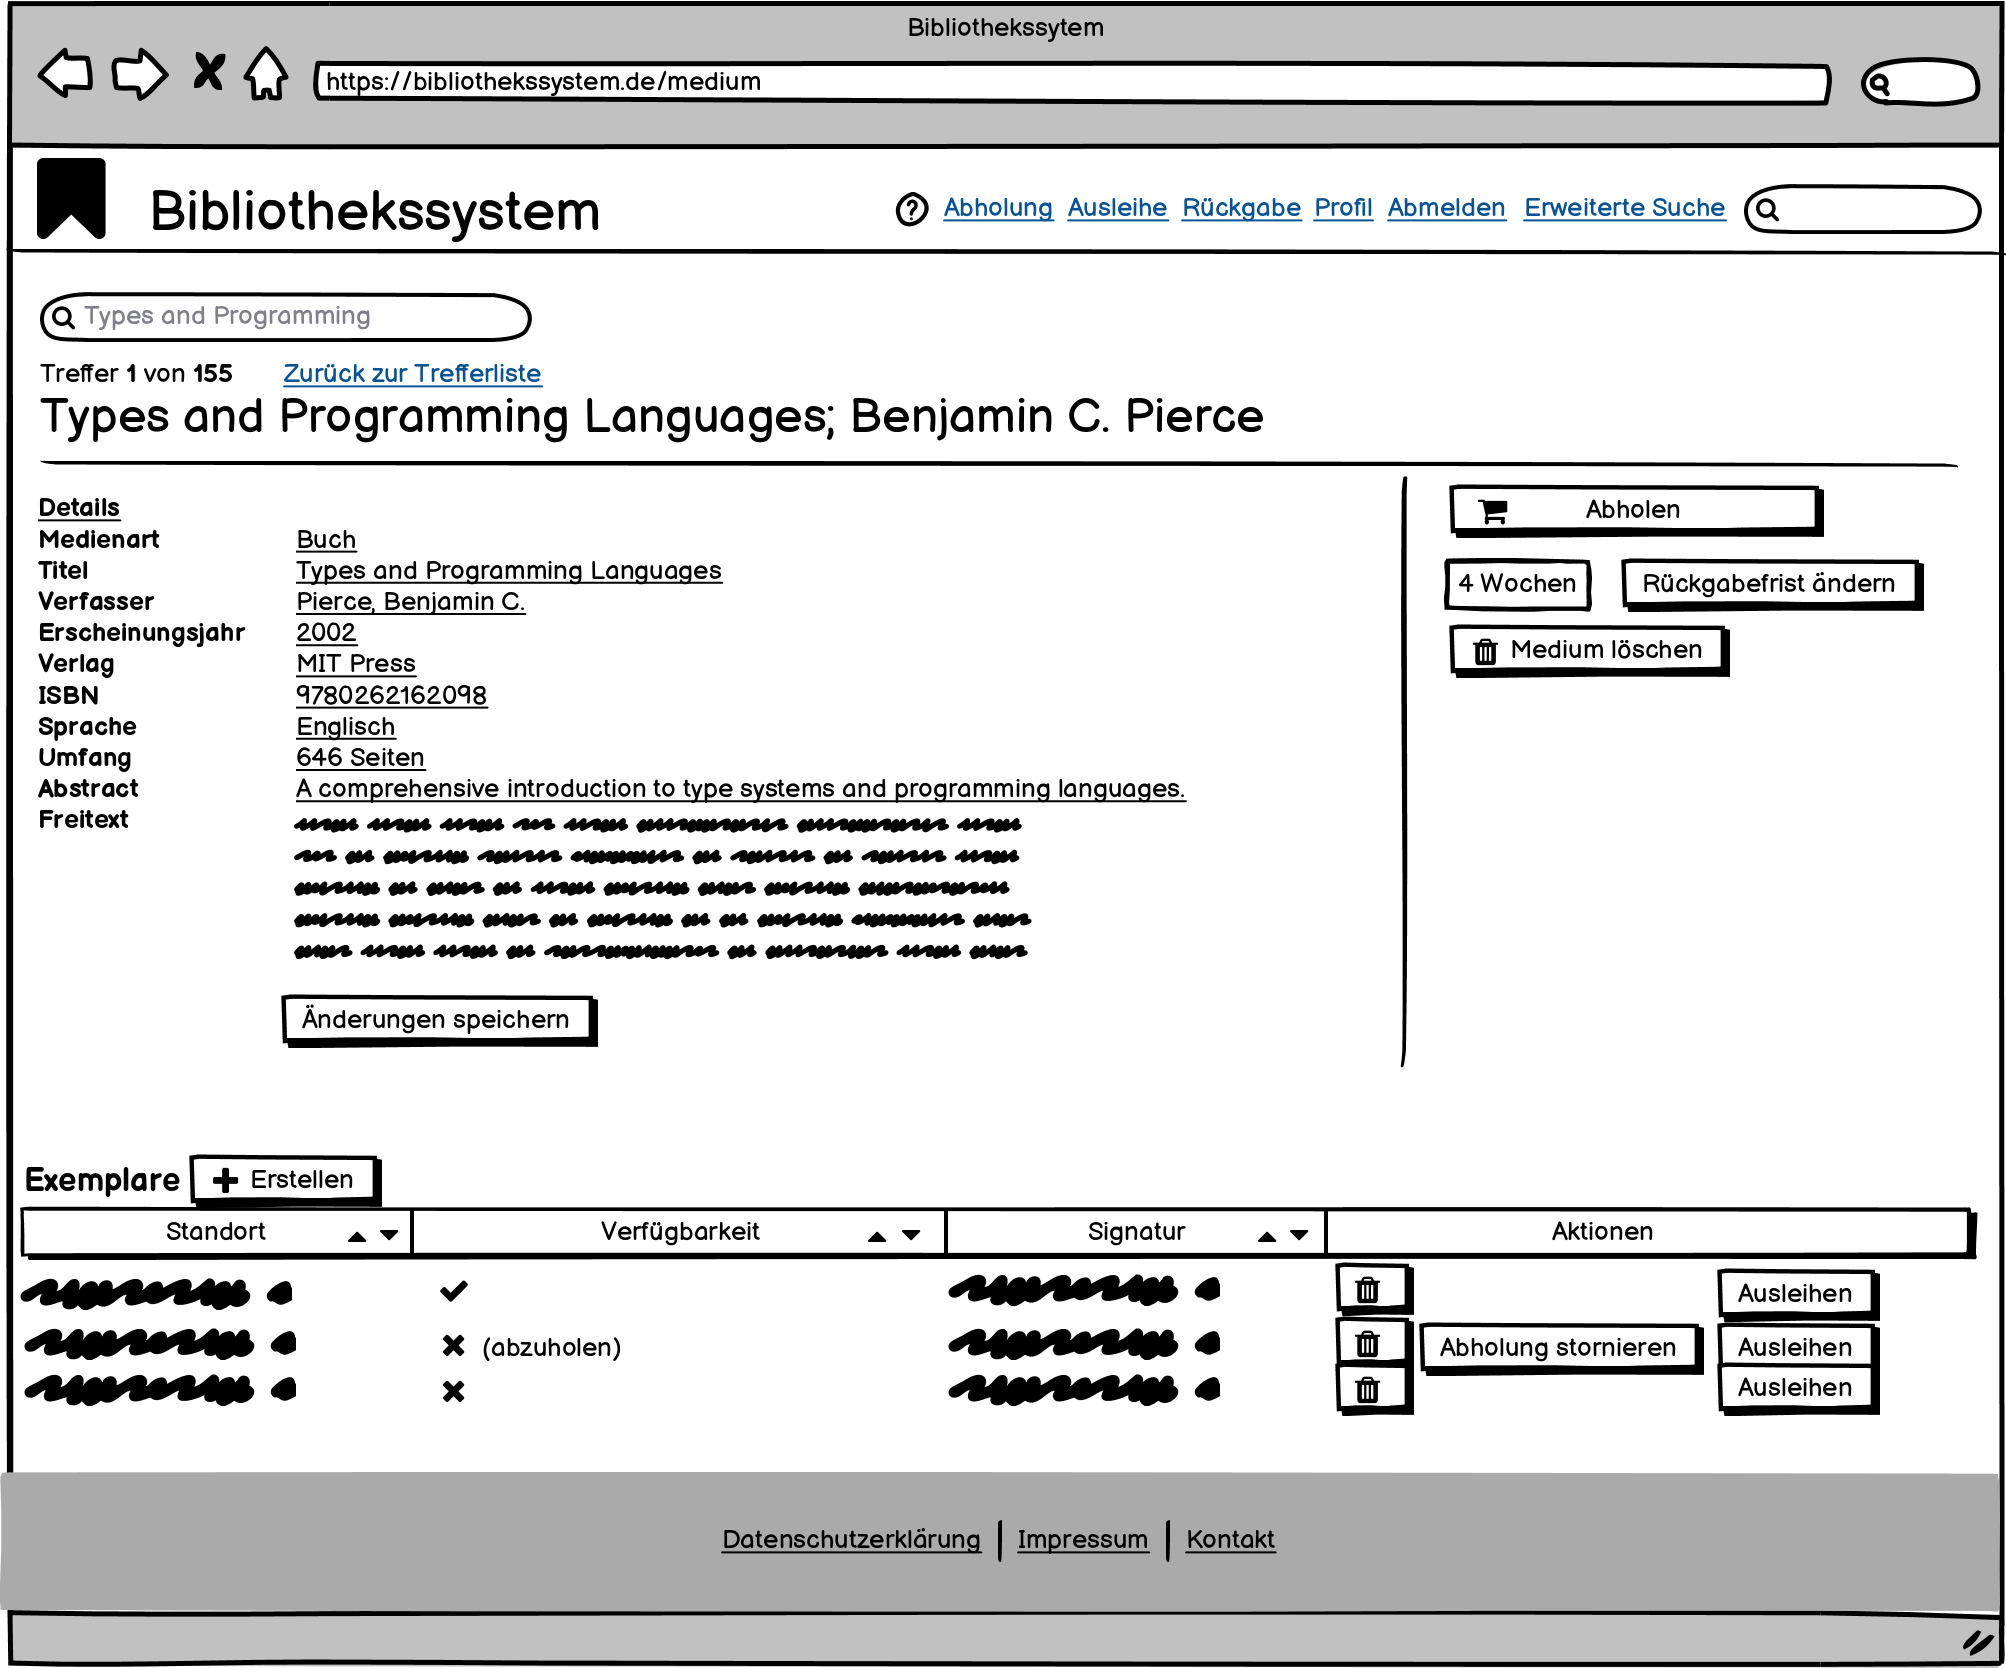
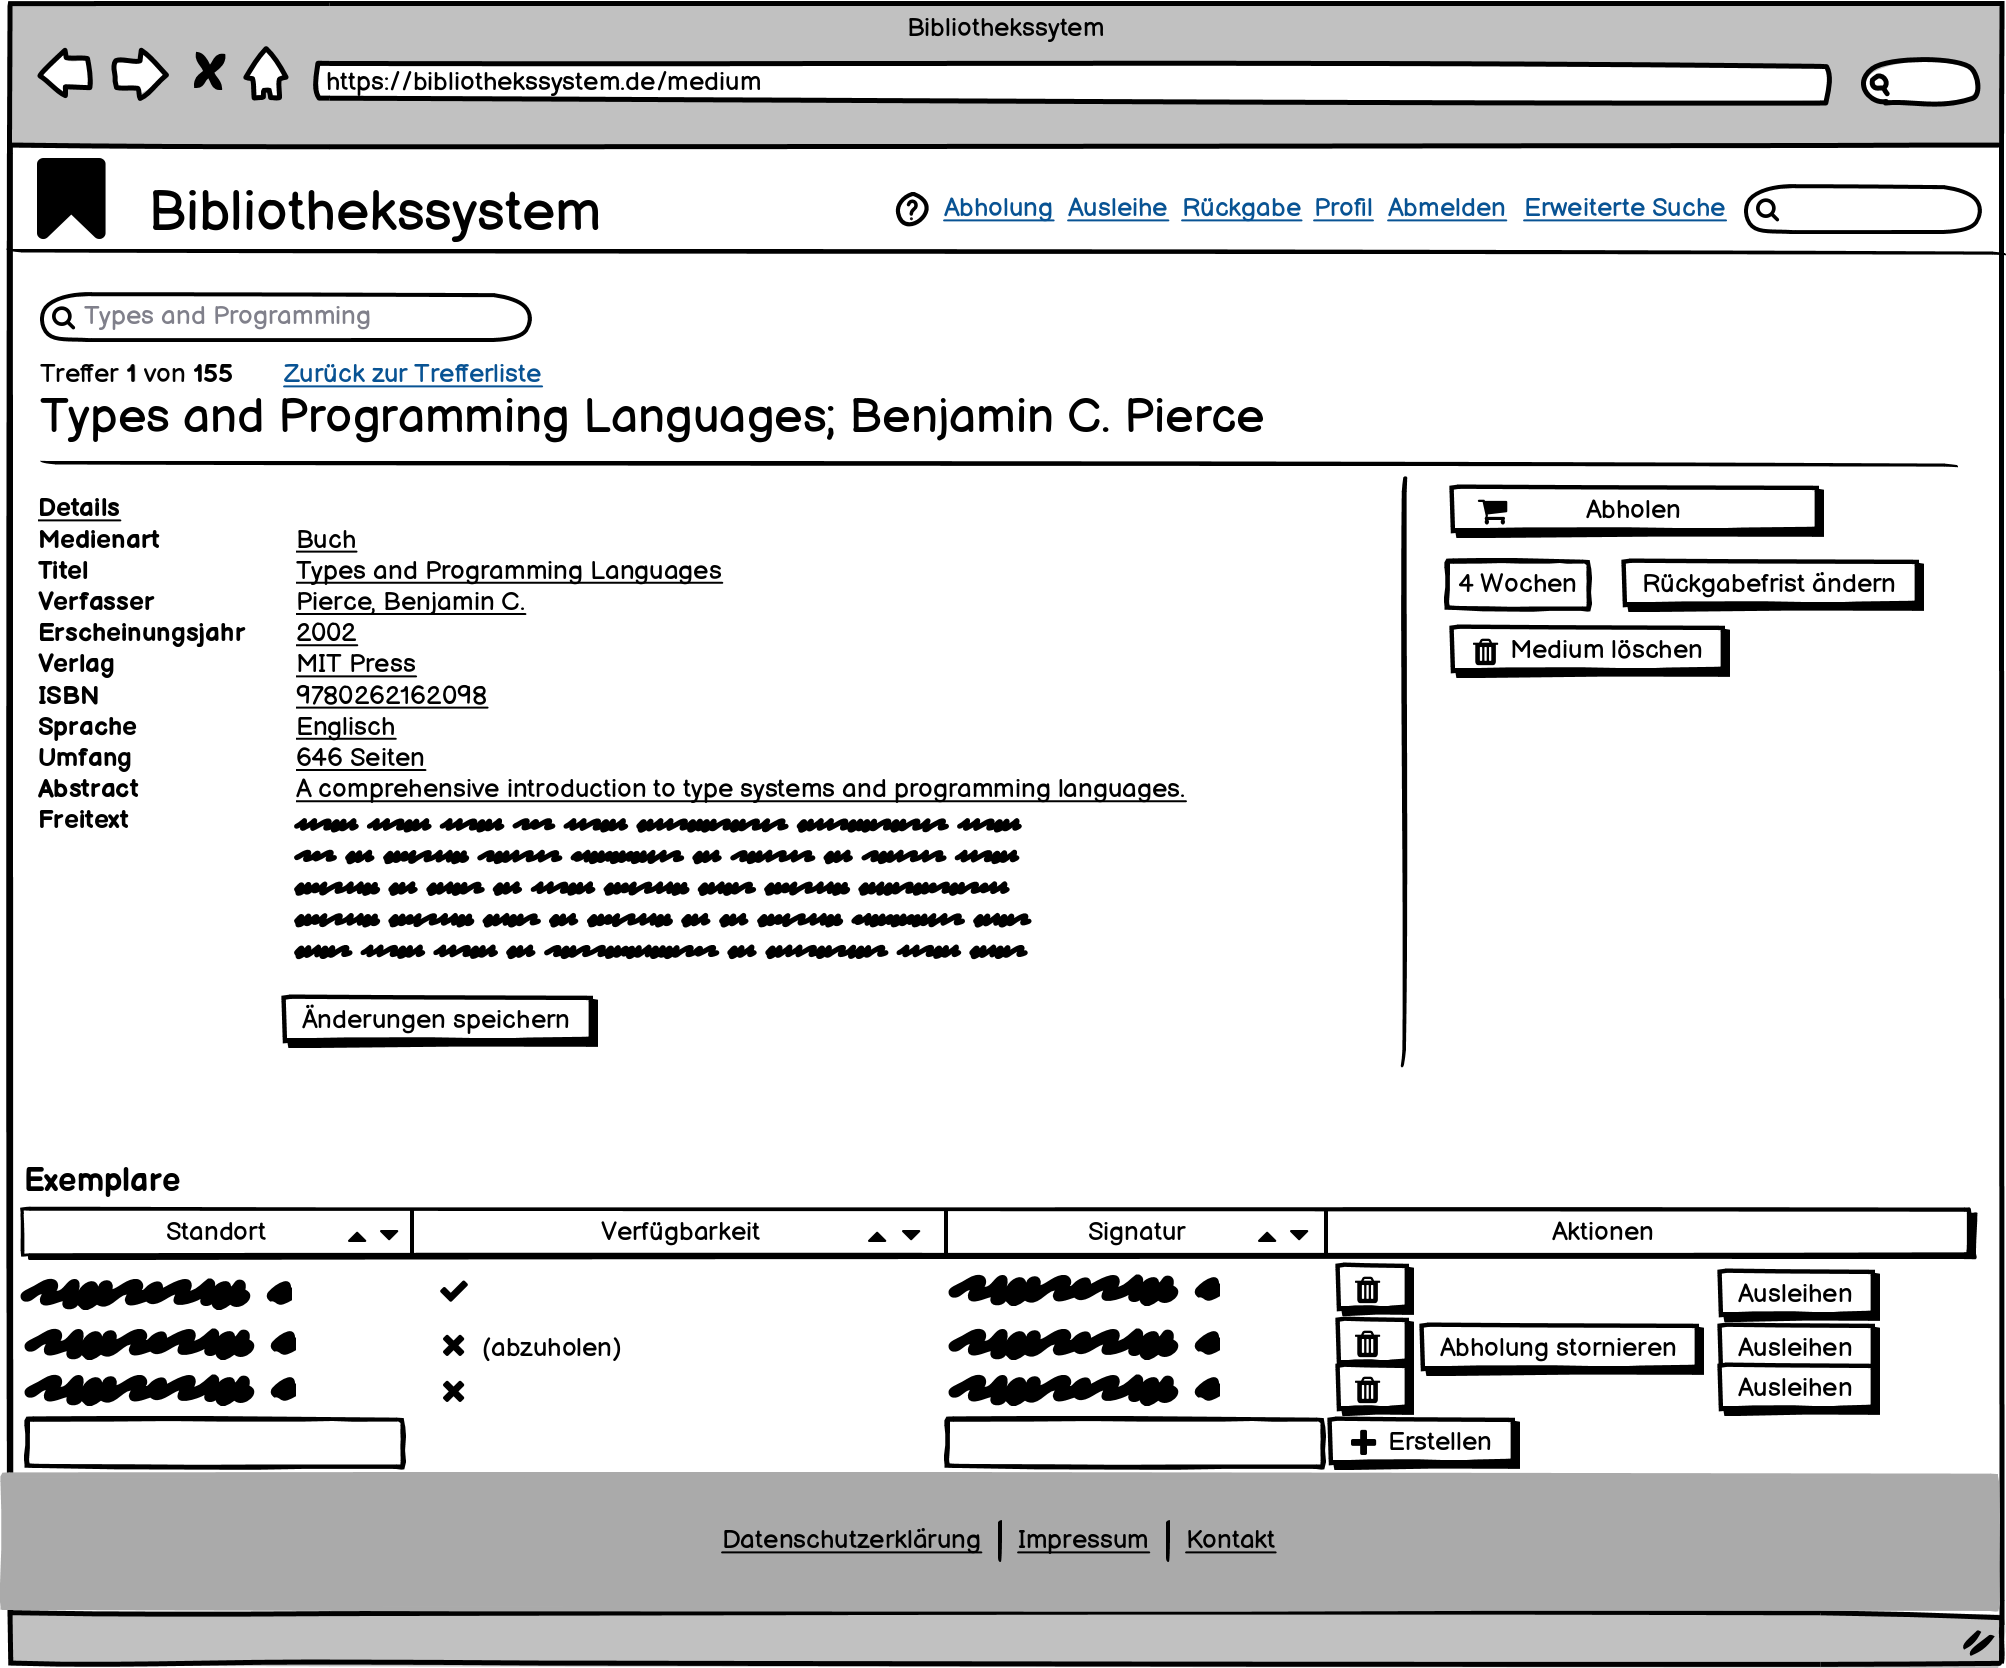
Update wireframes

diff --git a/Handbuch.html b/Handbuch.html
@@ -522,8 +522,8 @@
         Direktausleihe weiterführt und für Sie dort das Eingabefeld der Exemplarssignatur mit dem richtigen Wert
         ausfüllt.
 
-        Ganz analog gibt für jedes Exemplar den Knopf „Abholungen stornieren“, welcher ein abzuholendes Exemplar wieder
-        verfügbar für andere macht und eine E-Mail an den betroffenen Nutzer sendet.
+        Ganz analog gibt für jedes abzuholende Exemplar den Knopf „Abholungen stornieren“, welcher dieses wieder
+        für andere verfügbar macht und eine E-Mail an den betroffenen Nutzer sendet.
 
         Um das Medium zu löschen, klicken Sie bitte auf den Knopf „Medium löschen“.
         Vor dem Löschen werden Sie nach einer Bestätigung gefragt und die Anzahl an ausgeliehen und abzuholenden
@@ -531,6 +531,8 @@
         Sie werden direkt nach dem Löschen
         zu der Seite geleitet, welcher Sie zuvor besucht haben (falls diese nicht existiert, ist dies Ihr Profil).
 
+        Um ein neues Exemplar zu erstellen, füllen Sie die Felder in der Exemplarstabelle aus und klicken Sie
+        anschließend auf „Erstellen“.
         <h4>Administrator</h4>
     </section>
 
